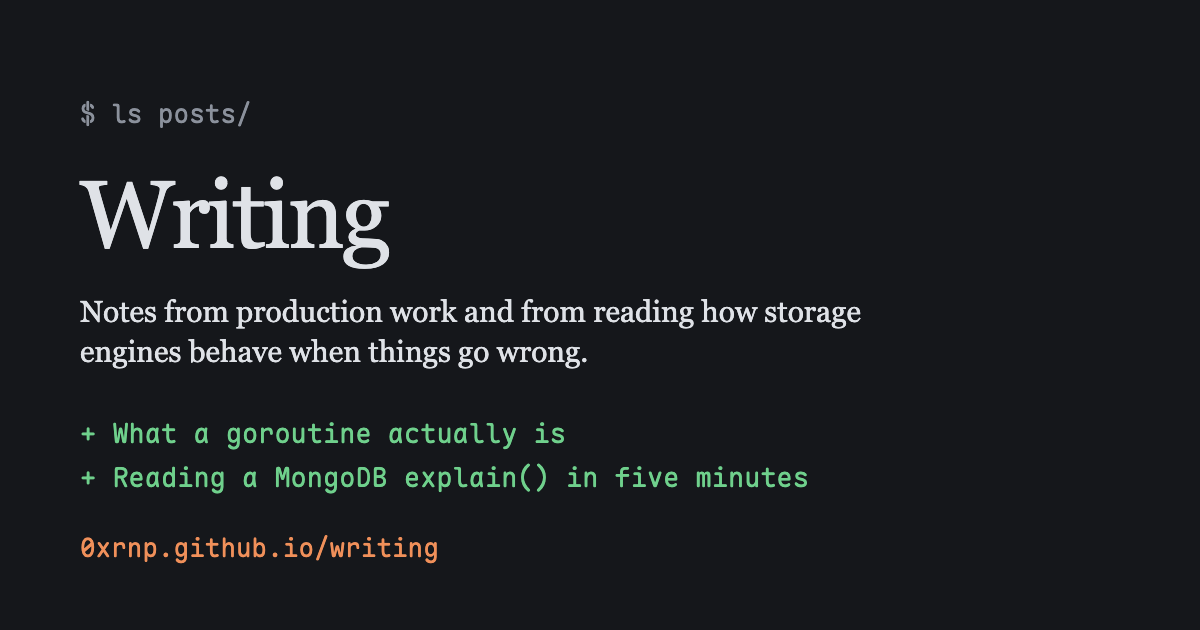
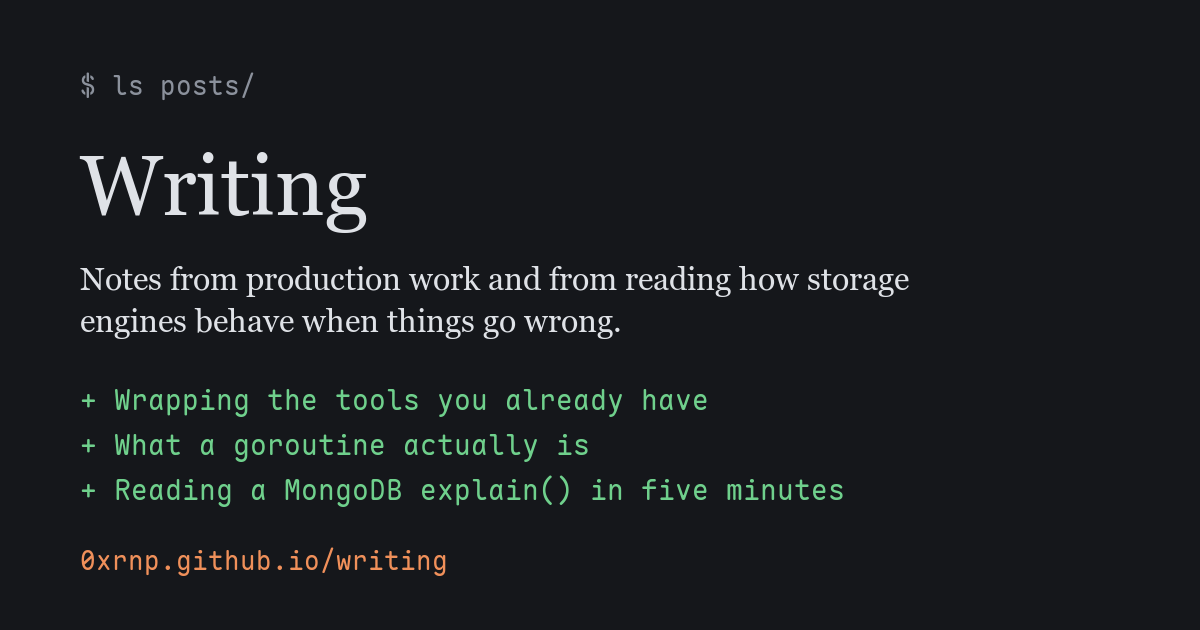
Add lazymobile post and regenerate the writing card

Changed region(s): [[0.0617, 0.2413, 0.7708, 0.8143], [0.0617, 0.8444, 0.37, 0.9048], [0.0617, 0.1206, 0.2158, 0.2111]]

diff --git a/writing/building-lazymobile/index.html b/writing/building-lazymobile/index.html
@@ -1,0 +1,128 @@
+<!DOCTYPE html>
+<html lang="en">
+<head>
+<meta charset="utf-8">
+<meta name="viewport" content="width=device-width, initial-scale=1">
+<link rel="icon" type="image/svg+xml" href="/favicon.svg">
+<title>Wrapping the tools you already have · 0xrnp</title>
+<meta name="description" content="How lazymobile follows an Android app across restarts, finds a release iOS app's output, and survives simctl formats that keep changing.">
+<link rel="canonical" href="https://0xrnp.github.io/writing/building-lazymobile/">
+<meta property="og:type" content="article">
+<meta property="og:title" content="Wrapping the tools you already have">
+<meta property="og:description" content="How lazymobile follows an Android app across restarts, finds a release iOS app's output, and survives simctl formats that keep changing.">
+<meta property="og:url" content="https://0xrnp.github.io/writing/building-lazymobile/">
+<meta property="og:image" content="https://0xrnp.github.io/writing/building-lazymobile/og.png">
+<meta property="og:image:width" content="1200">
+<meta property="og:image:height" content="630">
+<meta property="og:image:alt" content="Wrapping the tools you already have: lazymobile is one Go binary around xcrun, adb, emulator and eas.">
+<meta name="twitter:card" content="summary_large_image">
+<meta name="twitter:image" content="https://0xrnp.github.io/writing/building-lazymobile/og.png">
+<link rel="preload" href="/fonts/MapleMono-Regular.woff2" as="font" type="font/woff2" crossorigin>
+<style>
+  @font-face { font-family: "Maple Mono"; src: url("/fonts/MapleMono-Regular.woff2") format("woff2"); font-weight: 400; font-style: normal; font-display: swap; }
+  @font-face { font-family: "Maple Mono"; src: url("/fonts/MapleMono-Bold.woff2") format("woff2"); font-weight: 700; font-style: normal; font-display: swap; }
+  :root {
+    --mono: "Maple Mono", ui-monospace, "SF Mono", Menlo, Consolas, monospace;
+    --bg: #f4f2ee; --ink: #22252b; --muted: #595e68; --accent: #a8431a; --panel: #e9e6e0; --add: #19672f; --del: #b3261e;
+  }
+  @media (prefers-color-scheme: dark) {
+    :root { --bg: #15171b; --ink: #dfe2e7; --muted: #8b919c; --accent: #f0905a; --panel: #1d2026; --add: #6fd08c; --del: #f07a72; }
+  }
+  * { box-sizing: border-box; }
+  body { margin: 0; background: var(--bg); color: var(--ink); font: 16px/1.7 var(--mono); }
+  main { max-width: 46rem; margin: 0 auto; padding: 3.5rem 1.25rem 3rem; }
+  h1 { font: 400 clamp(2rem, 7vw, 3rem)/1.1 Georgia, "Times New Roman", serif; letter-spacing: -0.02em; margin: 0 0 0.75rem; }
+  h2 { font-size: 1rem; font-weight: 700; color: var(--accent); margin: 2.5rem 0 0.6rem; }
+  p { margin: 0 0 1rem; }
+  .muted { color: var(--muted); font-size: 0.9rem; }
+  pre { background: var(--panel); padding: 1rem 1.25rem; overflow-x: auto; font: inherit; font-size: 0.85rem; margin: 0 0 1rem; }
+  code { font: inherit; }
+  p code, li code { background: var(--panel); padding: 0.05rem 0.35rem; font-size: 0.88em; }
+  table { border-collapse: collapse; width: 100%; font-size: 0.82rem; margin: 0 0 1rem; display: block; overflow-x: auto; }
+  th, td { text-align: left; padding: 0.4rem 0.9rem 0.4rem 0; vertical-align: top; }
+  th { color: var(--accent); border-bottom: 1px solid var(--muted); }
+  ul, ol { margin: 0 0 1rem; padding-left: 1.25rem; }
+  li { margin-bottom: 0.3rem; }
+  a { color: var(--accent); text-decoration: none; }
+  a:hover, a:focus-visible { text-decoration: underline; text-underline-offset: 4px; }
+  .good { color: var(--add); }
+  .bad { color: var(--del); }
+  .skip { position: absolute; left: -999px; top: 0; background: var(--accent); color: var(--bg); padding: 0.4rem 0.8rem; }
+  .skip:focus { left: 0.5rem; top: 0.5rem; }
+  pre:focus-visible, table:focus-visible { outline: 2px solid var(--accent); outline-offset: 2px; }
+  @media (prefers-reduced-motion: reduce) { * { scroll-behavior: auto !important; transition: none !important; animation: none !important; } }
+</style>
+</head>
+<body>
+<a class="skip" href="#main">Skip to content</a>
+<main id="main">
+  <p><a href="/writing/">&larr; writing</a></p>
+
+  <h1>Wrapping the tools you already have</h1>
+  <p class="muted">Rudra Narayan Panda &middot; <time datetime="2026-11-14">14 Nov 2026</time></p>
+
+  <p><a href="https://github.com/0xrnp/lazymobile">lazymobile</a> is a terminal dashboard for mobile development: iOS simulators, Android emulators, connected phones, their logs, and Expo builds in one screen. It is one Go binary that calls <code>xcrun</code>, <code>adb</code>, <code>emulator</code> and <code>eas</code>. Its device logic started in <a href="https://github.com/0xrnp/devices.nvim">devices.nvim</a>, the same idea as a Neovim plugin, and was ported to Go.</p>
+  <p>Wrapping existing tools sounds easy. The work is in what those tools do not promise: stable output, one process id per app, and a place where a release build's <code>print()</code> goes. Here are the parts that took thought.</p>
+
+  <h2>the output changes under you</h2>
+  <p>lazymobile does not link to any Apple or Android library. It runs the tool and parses what comes back, so the parser is the contract. <code>simctl</code> alone has two generations of output. Modern versions report <code>isAvailable</code> as a boolean. Older ones report an <code>availability</code> string. Runtime keys changed too, from names like <code>iOS 12.1</code> to <code>SimRuntime.iOS-18-2</code>. Both are read:</p>
+<pre tabindex="0"><code>func available(isAvailable *bool, availability *string) bool {
+	if isAvailable != nil {
+		return *isAvailable
+	}
+	return availability == nil || *availability == "(available)"
+}</code></pre>
+  <p><code>devicectl</code>, which lists physical iPhones, moved its fields under <code>properties</code> in Xcode 27 and reports versions as an object with a <code>stringValue</code>. The parser reads the new layout first and falls back to the old one. One more rule: each device entry is decoded on its own, so one malformed entry cannot hide the rest of the list.</p>
+
+  <h2>following an Android app across restarts</h2>
+  <p><code>adb logcat</code> prints a process id on every line. Filter on one pid and the log goes quiet the moment the app restarts, because the new process has a new pid. lazymobile keeps a set of pids for the package instead, and fills it from two places:</p>
+  <ul>
+    <li><code>adb shell pidof &lt;package&gt;</code>, asked once before streaming starts and then every 2 seconds. Asking first means the earlier lines of an app that is already running are not dropped for arriving before its pid is known.</li>
+    <li>The <code>Start proc &lt;pid&gt;:&lt;package&gt;</code> line that Android logs when it launches the process, which the filter reads from the stream itself.</li>
+  </ul>
+<pre tabindex="0"><code>func (f *AppFilter) Accept(line Line) bool {
+	if m := f.start.FindStringSubmatch(line.Text); m != nil {
+		f.pids[m[1]] = true
+		return true
+	}
+	if line.PID != "" && f.pids[line.PID] {
+		return true
+	}
+	return strings.Contains(line.Text, f.pkg)
+}</code></pre>
+  <p>The last line keeps anything that names the package, so crash reports and system messages about your app stay in view even when they come from another process.</p>
+
+  <h2>the release build that prints nothing</h2>
+  <p>On iOS, a release app's <code>print()</code> and <code>NSLog</code> output goes to its standard output, and only the tool that launched the app sees that. Open the system log for a release build and you will not find it. So alongside the system log, lazymobile offers to launch the app itself and show its output. On a simulator that is <code>simctl launch --console-pty</code>. A pseudo-terminal keeps the app's output line-buffered, so lines arrive as they are printed and not in a late burst. On a phone it is <code>devicectl device process launch --console</code>.</p>
+
+  <h2>treat the arguments as untrusted</h2>
+  <p>A dashboard that builds command lines from names on a screen needs rules about what reaches the shell.</p>
+  <ul>
+    <li><code>adb shell</code> joins its arguments into one command line for the device's shell, so an app id is checked against a plain pattern (letters, digits, dots, underscores, dashes) before it gets there. An iOS process name goes into a log predicate, so it gets the same check.</li>
+    <li>Erase, delete and wipe always ask first, and real phones are never booted, erased or deleted.</li>
+    <li>The Expo builds pane does not run <code>eas</code> until you press enter in it, because <code>eas</code> runs your project's own configuration code and uses your Expo login. Starting a build shows the exact command and asks first, and a profile with "prod" in its name must be typed out.</li>
+    <li>Log lines are stripped of terminal control sequences before they are drawn, since a log line should not be able to move your cursor. Saved logs are readable only by you, because logs can hold tokens and personal data.</li>
+  </ul>
+
+  <h2>what I have and have not tested</h2>
+  <p>The README keeps a status table, and I would rather say it here than let you find out. Tested on real hardware or real tools:</p>
+  <ul>
+    <li>iOS simulators on Xcode 27.2: list, boot, shut down, install an app and both kinds of logs, with a real React Native app.</li>
+    <li>Android emulator boot, shut down and logcat, and a real Android phone.</li>
+    <li>An iPhone, listed over USB.</li>
+    <li>The Expo builds pane: listing, details, and downloading and installing builds, with eas-cli 24.7 and a real Expo project.</li>
+  </ul>
+  <p>Tested with fake tools only:</p>
+  <ul>
+    <li>An iPhone's logs and <code>idevicesyslog</code>.</li>
+    <li>Starting and cancelling Expo builds.</li>
+  </ul>
+  <p>Fake tools are how most of the suite runs in CI, on Ubuntu and macOS. They prove the parsing and the flow, not that a real device agrees.</p>
+
+  <h2>try it</h2>
+<pre tabindex="0"><code>brew install 0xrnp/tap/lazymobile
+lazymobile doctor</code></pre>
+  <p><code>lazymobile doctor</code> says what is missing and how to install it. If something fails, the issue form asks for its output. The Neovim version is <a href="https://github.com/0xrnp/devices.nvim">devices.nvim</a>.</p>
+</main>
+</body>
+</html>

diff --git a/writing/index.html b/writing/index.html
@@ -54,10 +54,11 @@
   <p class="muted">Notes from production work and from reading how storage engines behave when things go wrong.</p>
 
   <div class="panel"><b>$</b> ls posts/
-goroutines-explained/  reading-mongodb-explain/</div>
+building-lazymobile/  goroutines-explained/  reading-mongodb-explain/</div>
 
   <h2>posts</h2>
   <ul>
+    <li><time datetime="2026-11-14">14 Nov 2026</time> <a href="/writing/building-lazymobile/">Wrapping the tools you already have</a></li>
     <li><time datetime="2026-11-13">13 Nov 2026</time> <a href="/writing/goroutines-explained/">What a goroutine actually is</a></li>
     <li><time datetime="2026-11-13">13 Nov 2026</time> <a href="/writing/reading-mongodb-explain/">Reading a MongoDB explain() in five minutes</a></li>
   </ul>
@@ -68,6 +69,7 @@ goroutines-explained/  reading-mongodb-explain/</div>
     <li>idempotent payment and webhook flows</li>
     <li>cutting database cost without hurting latency</li>
     <li>storage engines: write paths and compaction</li>
+    <li>understanding AI agents, from a beginner's side</li>
   </ul>
 
   <h2>tell me what to write next</h2>
